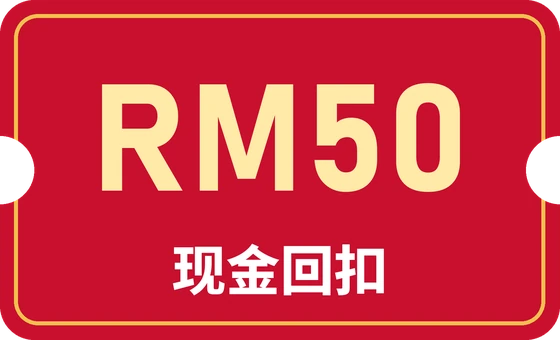
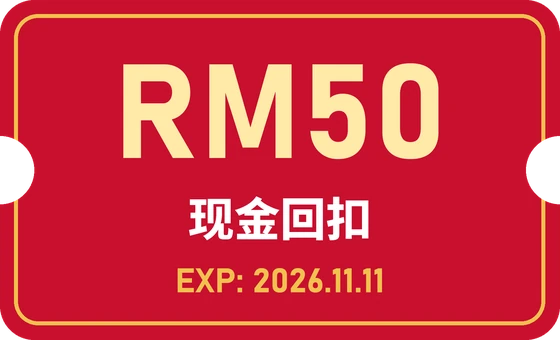
惊喜礼:RM50 现金回扣加上 EXP: 2026.11.11(图、结果页、截图)

Changed region(s): [[0.1821, 0.1765, 0.8196, 0.8824]]

diff --git a/d11/index.html b/d11/index.html
@@ -66,11 +66,13 @@ h1{margin:10px 0 2px;text-align:center;font-size:42px;line-height:1.15;font-weig
 .res .b{margin:4px 0 2px;font-size:29px;line-height:1.2;font-weight:800;color:#fff}
 .ov.big .res .b{color:var(--gold)}
 .res .c{font-size:13px;color:#CFE0E5}
+.res .x{margin:0 0 4px;font-size:14px;font-weight:700;color:var(--gold2)}
 .btn{display:block;width:100%;margin-top:16px;padding:14px;border:0;border-radius:12px;background:var(--gold);color:#3A2404;font:inherit;font-size:18px;font-weight:800;cursor:pointer;text-align:center;text-decoration:none}
 .sum h2{margin:18px 0 12px;text-align:center;font-size:24px;font-weight:800;color:var(--gold)}
 .row{display:flex;align-items:center;margin-bottom:8px;padding:8px 12px;border-radius:12px;background:rgba(239,239,239,.94);color:var(--navy)}
 .row img{width:56px;height:56px;margin-right:12px;object-fit:contain}
 .row b{flex:1;font-size:16px}
+.row b small{display:block;margin-top:2px;font-size:12px;color:#A50D24}
 .row.top{background:var(--gold)}
 .note{margin:12px 0 0;text-align:center;font-size:14px;color:#CFE0E5}
 .rule{display:flex;flex-wrap:wrap;justify-content:center;margin:0 0 10px}
@@ -138,6 +140,7 @@ canvas{position:fixed;top:0;left:0;z-index:30;pointer-events:none}
   <div class="res" id="res">
     <p class="a" id="resA"></p>
     <p class="b" id="resB"></p>
+    <p class="x" id="resX"></p>
     <p class="c">惊喜礼会跟你的订单一起寄出</p>
     <button class="btn" id="next"></button>
   </div>
@@ -237,6 +240,7 @@ function openPacket(el) {
   $("bpImg").src = p.img;
   $("resA").textContent = p.top ? "大奖！恭喜你抽到" : "恭喜你抽到";
   $("resB").textContent = p.name;
+  $("resX").textContent = p.exp || "";
   $("next").textContent = left > 0 ? `再拆一个（还有 ${left} 次）` : "看我的礼物";
   ov.className = "ov on" + (p.top ? " big" : "");
   res.classList.remove("in");
@@ -261,7 +265,7 @@ let picture = null, message = "";
 function finish() {
   $("play").hidden = true; $("sum").hidden = false;
   const won = seq.map(byId);
-  $("list").innerHTML = won.map(p => `<div class="row${p.top ? " top" : ""}"><img src="${p.img}" alt=""><b>${p.name}</b></div>`).join("");
+  $("list").innerHTML = won.map(p => `<div class="row${p.top ? " top" : ""}"><img src="${p.img}" alt=""><b>${p.name}${p.exp ? `<small>${p.exp}</small>` : ""}</b></div>`).join("");
   message = "Hi Kent，我是 " + who + "，我拆完惊喜礼了：" + won.map(p => p.name).join("、");
   picture = drawPicture(won).catch(() => null);
 }
@@ -287,7 +291,8 @@ async function drawPicture(won) {
     x.fillRect(32, y, W - 64, h);
     const im = imgs[i], s = Math.min(92 / im.width, 92 / im.height);
     x.drawImage(im, 62 + (92 - im.width * s) / 2, y + 8 + (92 - im.height * s) / 2, im.width * s, im.height * s);
-    x.textAlign = "left"; x.fillStyle = "#062530"; x.font = font(32, 700); x.fillText(p.name, 176, y + 66);
+    x.textAlign = "left"; x.fillStyle = "#062530"; x.font = font(32, 700); x.fillText(p.name, 176, p.exp ? y + 52 : y + 66);
+    if (p.exp) { x.fillStyle = "#A50D24"; x.font = font(24, 700); x.fillText(p.exp, 176, y + 90); }
   });
   x.textAlign = "center"; x.fillStyle = "#F2C14E"; x.font = font(28, 700);
   x.fillText("2盒选 1 样 · 4盒选 3 样 · 6盒 6 样全部拿", W / 2, H - 84);
